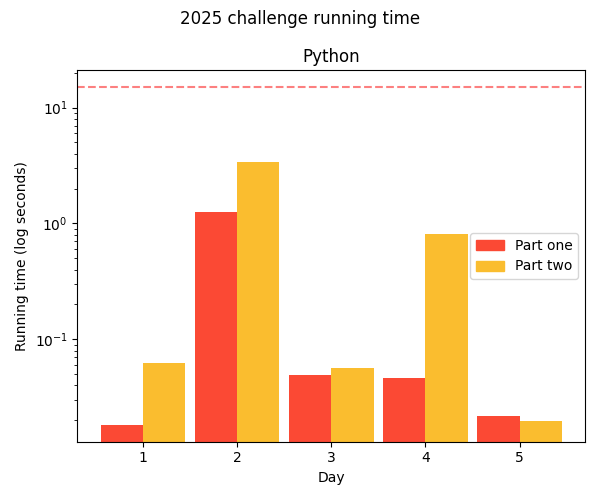
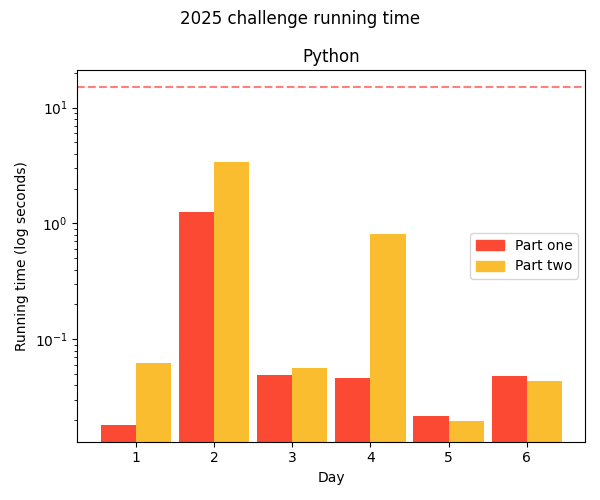
2025-06

Changed region(s): [[0.27, 0.3, 0.96, 0.93], [0.21, 0.72, 0.24, 0.93], [0.33, 0.9, 0.36, 0.93]]

diff --git a/challenges/2025/06-trashCompactor/main.py b/challenges/2025/06-trashCompactor/main.py
@@ -1,0 +1,67 @@
+import sys
+from math import prod
+import itertools
+from typing import Callable, Iterable
+import functools
+
+
+def parse(instr: str) -> list[tuple[str, list[str]]]:
+    data = instr.splitlines()
+    operations = data[-1]
+    data = data[:-1]
+
+    breakpoints = []
+    for i, char in enumerate(operations):
+        if char != " ":
+            breakpoints.append(i)
+
+    res = []
+    for (bp_start, bp_end) in itertools.pairwise(breakpoints + [None]):
+        acc = []
+        for line in data:
+            if bp_end is None:
+                acc.append(line[bp_start:])
+            else:
+                acc.append(line[bp_start : bp_end - 1])
+        res.append((operations[bp_start], acc))
+
+    return res
+
+
+def process(instr: str, mapper: Callable[[list[str]], Iterable[int]]) -> int:
+    problems = parse(instr)
+    n = 0
+    for (operation, data) in problems:
+        digits = mapper(data)
+        match operation:
+            case "+":
+                n += sum(digits)
+            case "*":
+                n += prod(digits)
+            case _:
+                assert False, f"unknown operation {operation}"
+    return n
+
+
+def one(instr: str) -> int:
+    return process(instr, functools.partial(map, lambda x: int(x.strip())))
+
+
+def two(instr: str) -> int:
+    return process(instr, lambda y: map(lambda x: int(("".join(x)).strip()), zip(*y)))
+
+
+def _debug(*args, **kwargs):
+    kwargs["file"] = sys.stderr
+    print(*args, **kwargs)
+
+
+if __name__ == "__main__":
+    if len(sys.argv) < 2 or sys.argv[1] not in ["1", "2"]:
+        print("Missing day argument", file=sys.stderr)
+        sys.exit(1)
+    inp = sys.stdin.read().strip()
+    if sys.argv[1] == "1":
+        print(one(inp))
+    else:
+        print(two(inp))

diff --git a/challenges/2025/README.md b/challenges/2025/README.md
@@ -19,3 +19,4 @@ A day denoted with an asterisk means it has a visualisation.
 | 03 - Lobby                          | ★ ★    | Python               |       |
 | 04 * - Printing Department          | ★ ★    | Python               |       |
 | 05 - Cafeteria                      | ★ ★    | Python               | This felt like the first day where truly different approaches were possible. I'm quite proud of my part 2 algorithm! |
+| 06 - Trash Compactor                | ★ ★    | Python               |       |

diff --git a/challenges/2025/06-trashCompactor/README.md b/challenges/2025/06-trashCompactor/README.md
@@ -1,0 +1,1 @@
+# [Day 6: Trash Compactor](https://adventofcode.com/2025/day/6)
